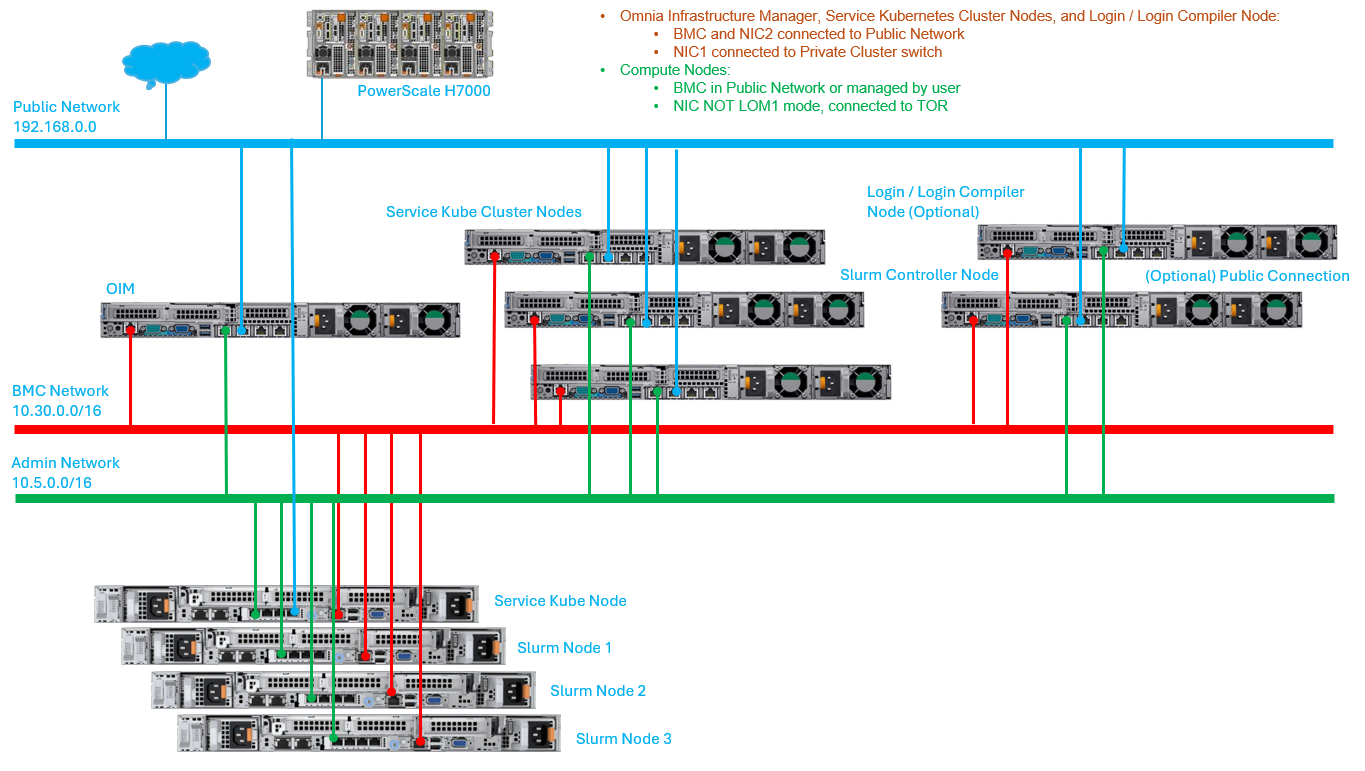
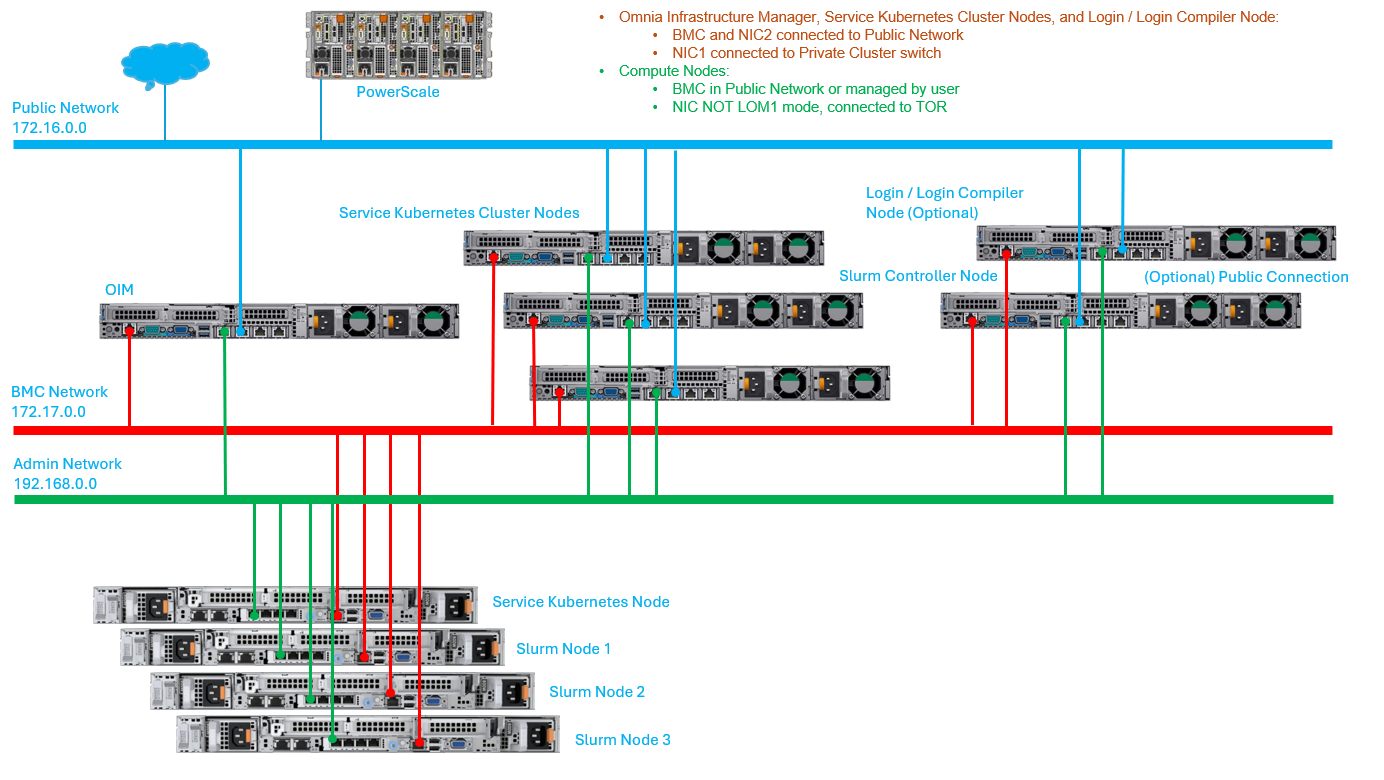
Updated the topology diagram based on the feedback.

diff --git a/docs/source/Overview/NetworkTopologies/Hybrid.rst b/docs/source/Overview/NetworkTopologies/Hybrid.rst
@@ -7,7 +7,7 @@ Network Topology: Hybrid Setup
 
 In a **Hybrid Setup**, the OIM and special nodes such as the head and login node are connected to the public network, while the iDRAC and the compute nodes use a shared LOM network.
 
-* **Public Network (Blue line)**: This indicates the external public network which is connected to the internet. NIC2 of the OIM, Service cluster nodes, Head node, and Login node [optional] is connected to the public network. Along with this, BMC NIC of the Head node is connected.
+* **Public Network (Blue line)**: This indicates the external public network which is connected to the internet. NIC2 of the OIM, Service cluster nodes, Head node, Service Kubernetes node, and Login node [optional] is connected to the public network. Along with this, BMC NIC of the Head node is connected.
 
 * **Admin Network and BMC network (Green line)**: This indicates the admin network and the BMC network utilized by Omnia to provision the cluster nodes and to control the cluster nodes using out-of-band management. NIC1 of all the nodes are connected to the private switch.
 

diff --git a/docs/source/Overview/NetworkTopologies/lom.rst b/docs/source/Overview/NetworkTopologies/lom.rst
@@ -7,7 +7,7 @@ Network Topology: Shared LAN on Motherboard (LOM) Setup
 
 In a **Shared LOM setup**, the Administration and BMC logical networks share the same ethernet segment and physical connection.
 
-* **Public Network (Blue line)**: This indicates the external public network which is connected to the internet. NIC2 of the OIM, Service cluster nodes, and Login node [optional] is connected to the public network.
+* **Public Network (Blue line)**: This indicates the external public network which is connected to the internet. NIC2 of the OIM, Service cluster nodes, Service Kubernetes node, and Login node [optional] is connected to the public network.
 
 * **Admin Network and BMC network (Green line)**: This indicates the admin network and the BMC network utilized by Omnia to provision the cluster nodes and to control the cluster nodes using out-of-band management. NIC1 of all the nodes are connected to the private switch.
 

diff --git a/docs/source/Overview/NetworkTopologies/dedicated.rst b/docs/source/Overview/NetworkTopologies/dedicated.rst
@@ -7,7 +7,7 @@ Network Topology: Dedicated Setup
 
 In a **Dedicated Setup**, all the cluster nodes (Head, Compute, and Login [optional]) have dedicated iDRAC connections.
 
-* **Public Network (Blue line)**: This indicates the external public network that is connected to the internet. NIC2 of the OIM, Service cluster nodes, Head node, and Login node [optional] are connected to the public network.
+* **Public Network (Blue line)**: This indicates the external public network that is connected to the internet. NIC2 of the OIM, Service cluster nodes, Head node, Service Kubernetes node, and Login node [optional] are connected to the public network.
 
 * **BMC Network (Red line)**: This indicates the private BMC (iDRAC) network used by the OIM to control the cluster nodes using out-of-band management.
 
